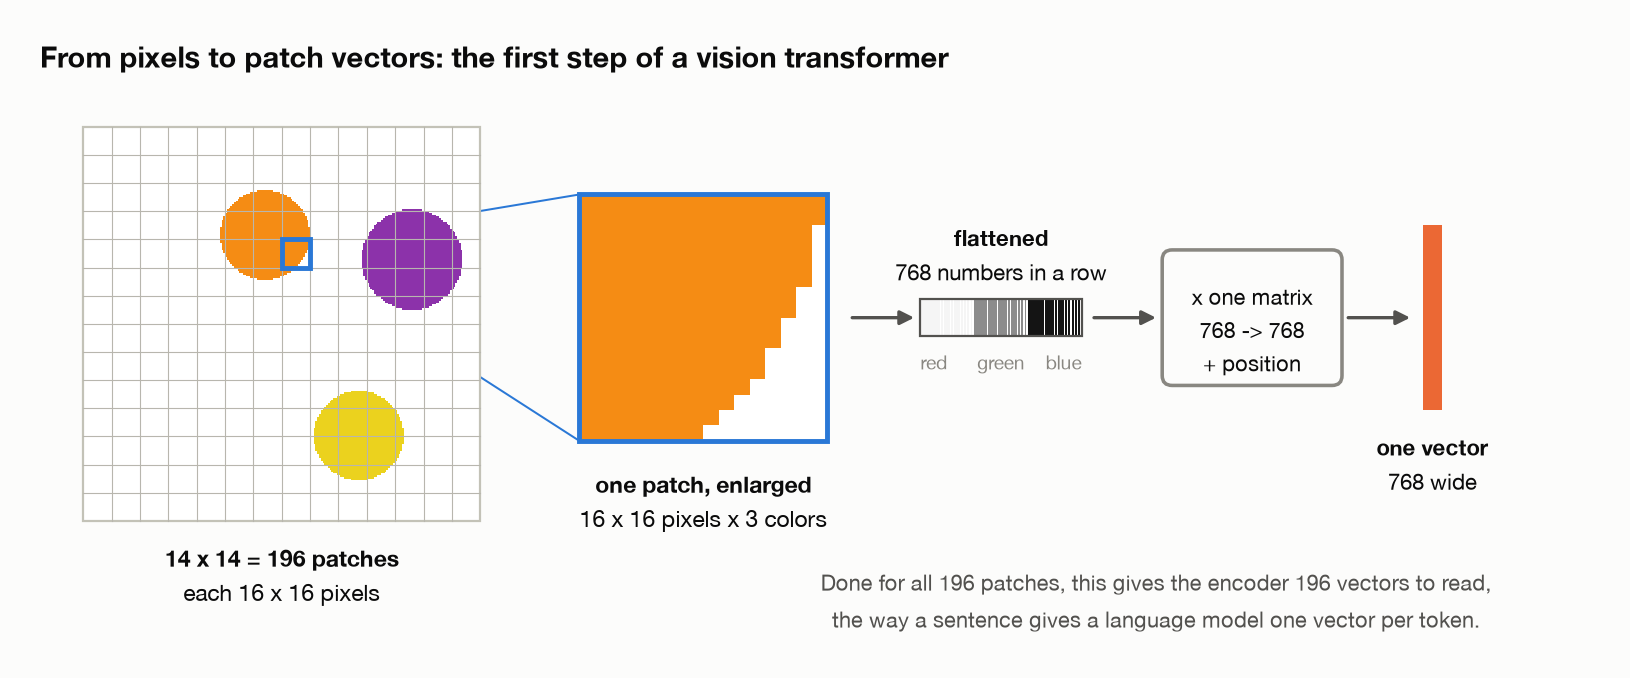
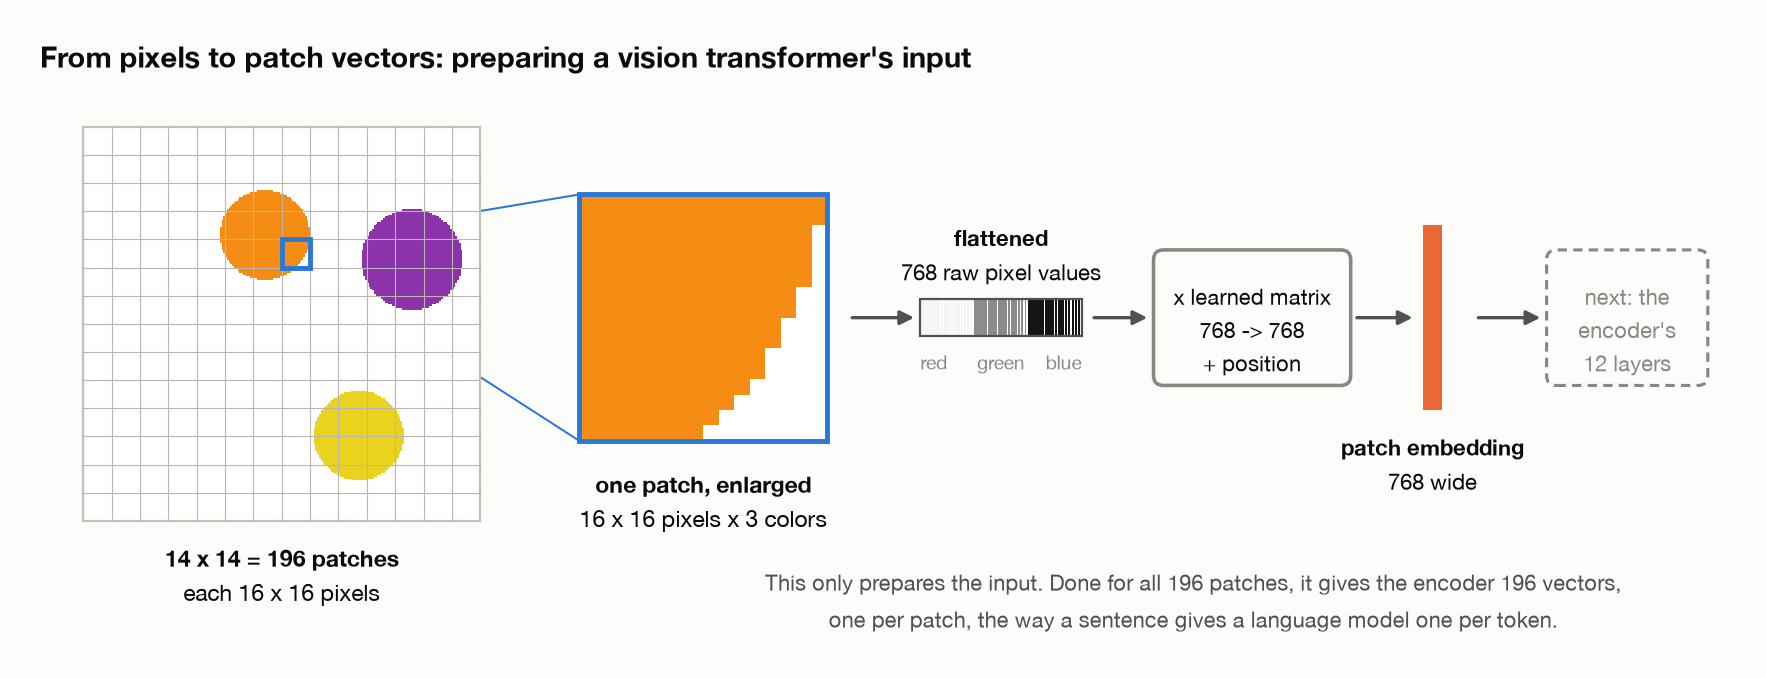
Post 7: Han's short version (fact-checked), section 1 rewritten
Short version: Han's rewrite, with local links made relative, merging
shown to cost no accuracy (91 vs 76), KV cache marked as calculated,
hidden size glossed. Section 1: why not one token per pixel, lookup vs
projection table, shapes table, no CLS token in SigLIP, position added
not appended, patch embedding vs encoder output. Figure relabelled.

diff --git a/_posts/2026-11-03-llm-architectures-multimodal.md b/_posts/2026-11-03-llm-architectures-multimodal.md
@@ -31,37 +31,92 @@ The question this post tests is whether that's enough. With both big models froz
 
 ### The short version {#the-short-version}
 
-I built a small vision-language model from three parts: a picture encoder (SigLIP-base) and a text model (Qwen2.5-0.5B, the model from posts 4 and 6), both **frozen**, so their weights never change, and a small **connector** between them, the only part trained from scratch. It was taught on generated pictures of colored shapes in two stages, first to describe them and then to answer questions about them. Every number is measured by the demo:
+Can we turn a small language model into a vision-language model without retraining the whole thing?
 
-| measured | result |
+That's what I wanted to find out.
+
+I started with two pretrained models: **SigLIP-base** to understand images and **Qwen2.5-0.5B** to generate text (the same language model from posts 4 and 6). I froze both, meaning their weights never changed, and trained only a small **connector** between them.
+
+The training data was deliberately simple: generated pictures containing colored shapes. I wanted to see whether the model could learn to describe what it saw, answer questions about individual shapes, and handle color-shape combinations it had never encountered during training.
+
+The connector has just **3.6 million trainable parameters**, about 0.7% of the language model's 494 million.
+
+#### How does it work?
+
+The idea is surprisingly simple: **turn a picture into something a language model can process alongside text.**
+
+There are three steps:
+
+1. **The vision encoder reads the picture.** It divides the image into 16 × 16-pixel patches, converts each patch into a vector, and processes all the patches together using a vision transformer. Unlike a language model generating text, the vision encoder lets every patch attend to every other patch ([§1](#pixels-to-patches)).
+
+2. **The connector translates between vision and language.** SigLIP produces 196 patch vectors, each 768 numbers wide. The connector combines neighbouring patches in groups of four, reducing 196 vectors to 49, then projects them to the language model's hidden size, the 896 numbers in each of its word vectors ([§2](#the-connector)).
+
+3. **The language model processes the picture and text together.** The 49 image vectors become part of the input sequence, alongside the text tokens. The language model processes them using its existing transformer architecture. The architecture doesn't need to change, although training is still needed to make those image representations useful ([§7](#text-pictures-or-both)).
+
+That's the basic recipe behind the architecture we're exploring: a vision encoder, a connector, and a language model.
+
+#### What did the experiments show?
+
+I trained the connector in two stages:
+
+- **Stage 1 — Learn to describe pictures.** Given an image, generate a caption describing the shapes and their colors.
+- **Stage 2 — Learn to answer questions.** Given an image and a question such as "What color is the triangle?", produce the correct answer.
+
+I also trained comparison models without the captioning stage, with extra captions mixed into question-answer training, and with LoRA enabled on the language model.
+
+Here are the results that stood out:
+
+| Experiment | Result |
 |---|---|
-| one picture becomes | **49 image tokens** |
-| connector size | 3,557,120, **0.7%** of the language model |
-| stage 1 captions exactly right | **91 of 120** (blank: 2) |
-| "color of the triangle?", pairs seen in training | **98** of 100 |
-| the same, for pairs never in a training picture | **76** of 100 |
-| ... and if stage 1 is skipped | **40** of 100 |
-| stage 1 ahead there, 5 paired seeds | **5 of 5**, by a median of 74 in 300 |
-| looking adds, over the controls | **59 to 70** points |
-| KV cache per picture (bf16) | **0.57 MiB** (196 tokens: 2.30) |
+| Captioning new pictures after stage 1 | **91/120** exactly correct |
+| Color questions on familiar color-shape combinations | **98/100** correct |
+| Same questions on combinations excluded from training | **76/100** correct |
+| Unseen combinations, without stage 1 | **40/100** correct |
+| Stage 1 vs. no stage 1, repeated across five seeds | **Stage 1 won all five** |
 
-**How it works.** A picture enters a transformer the way text does, as a sequence of vectors. The encoder cuts it into 16 × 16-pixel patches and turns each into a vector, and is itself a transformer much like the language model, except that every patch can read every other patch: there's no causal mask, because a picture isn't written left to right ([§1](#pixels-to-patches)). The connector merges neighbouring patches and reshapes them to the language model's width, and those vectors go into the sequence where words would be ([§2](#the-connector)). The language model doesn't change at all to read them, and since everything is one sequence, the same model takes text alone, one picture or several ([§7](#text-pictures-or-both)).
+The most interesting result wasn't how well the model performed on familiar examples. All three trained versions did well there.
 
-**What training buys.**
+It was what happened when I asked about **combinations the model had never seen during training**.
 
-- **The connector alone gets a long way.** With both big models frozen, 3.6 million trained parameters teach the model to caption new pictures exactly right 91 times out of 120 ([§3](#stage-one)).
-- **On familiar pictures, every way of training works.** Asked the color of a shape, the three trained versions scored a median of 94 to 99 of 100, with or without the captioning stage ([§4](#stage-two)).
-- **Pairs it never saw are the real test.** Three color-shape pairs never appeared in training. Asked about them, the model scored 76 instead of 98, and the one trained without the captioning stage scored 40. A second run with five paired seeds and 300 fresh questions per test found the same: stage 1 came out ahead in all five ([§6](#five-seeds)). Most wrong answers were the color of a different shape in the same picture, and only the model without stage 1 leaned toward the colors a shape usually came in.
-- **More captions helped one question.** Mixing captions into stage 2 improved "what color is the leftmost shape?" in all five seeds and did nothing for binding ([§6](#five-seeds)).
-- **LoRA added nothing measurable.** Letting the language model adapt moved no score beyond the spread of three seeds ([§4](#stage-two)).
+For example, suppose training included red circles and blue triangles, but never a red triangle. Could the model still answer "What color is the triangle?" when shown a red triangle?
 
-**Living with it.**
+This is a harder test because the model can't simply rely on the colors usually associated with each shape. It has to identify the shape and its color in the actual picture.
 
-- **A score means nothing without a control.** Asked with a blank picture, the models still got about 32 of 100 counting questions right by guessing. Every number here is read against that ([§5](#is-it-looking)).
-- **Pictures cost tokens.** 49 tokens is sixteen times as many positions as this picture's three-word caption. Merging 196 patches into 49 made a training step 3× faster, and here it didn't cost accuracy ([§8](#what-an-image-costs)).
-- **This is one design of four.** Others summarize the picture into a fixed number of tokens, read it through cross-attention, or turn it into a vocabulary of image tokens ([§9](#other-designs)).
+The two-stage model scored 76/100 on these unseen combinations, compared with 40/100 for the model trained without the captioning stage.
 
-The pictures are simple, generated shapes, so these numbers describe how the mechanism behaves, not how good the model is on photographs.
+To check whether this was just a lucky training run, I repeated the comparison across five paired random seeds, using 300 fresh questions per evaluation. **Captioning first helped in all five runs**, with a median advantage of 25 percentage points ([§6](#five-seeds)).
+
+That doesn't prove the model has learned general visual reasoning. But it does suggest that learning to describe complete pictures before answering targeted questions helps it handle new combinations of familiar visual features.
+
+#### A few other things I learned
+
+**1. A correct answer doesn't necessarily mean the model looked at the picture.**
+
+When I replaced the real image with a blank one, the models could still answer some questions correctly. On counting questions, for example, they scored around 32/100 without useful visual information.
+
+That's why I also tested blank, incorrect, and missing images. Depending on the question and model, the real picture improved accuracy by 59–70 percentage points over the strongest control. Without those controls, it would be easy to mistake good guessing for actual visual understanding ([§5](#is-it-looking)).
+
+**2. The training recipe mattered more than making the language model trainable.**
+
+Adding LoRA to the language model didn't produce a measurable improvement beyond the variation across three seeds. Mixing additional captions into stage 2 helped with questions about the leftmost shape, but didn't improve the unseen color-shape binding test.
+
+For this small task, what the connector learned, and the order in which it learned it, mattered more than adding trainable parameters to the language model ([§4](#stage-two), [§6](#five-seeds)).
+
+**3. Pictures have a real compute and memory cost.**
+
+In this implementation, one image takes 49 positions in the language model's input sequence, compared with just a few tokens for a short text description.
+
+Without patch merging, the image would take 196 positions. Reducing that to 49 made training steps about 3× faster, and in this experiment it didn't cost accuracy: the merged version captioned 91 of 120 pictures right, against 76. It also cut the bf16 KV cache each image needs, calculated from the model's shape, from 2.30 MiB to 0.57 MiB ([§8](#what-an-image-costs)).
+
+This is one reason image token counts matter when deploying multimodal models at scale.
+
+#### The bigger picture
+
+This experiment explores just one way to connect vision and language: **convert an image into vectors and insert them directly into the language model's input sequence.**
+
+Other architectures use a fixed number of learned visual tokens, cross-attention between language and vision, or discrete image tokens. We'll compare those designs later in the post ([§9](#other-designs)).
+
+And an important limitation: these experiments use simple, generated pictures of colored shapes, not real photographs. The results help us understand how the architecture and training process behave under controlled conditions. They don't establish how well this model would perform on real-world vision tasks.
 
 ### Setup
 
@@ -130,23 +185,47 @@ Plus [all notation](#appendix-all-notation) at the end.
 
 ### 1. From pixels to patches {#pixels-to-patches}
 
-A language model never sees text either. It sees a sequence of vectors, one per token, each looked up from a table ([post 1](/posts/llm-architectures-attention-and-rope/) walked through it). So the question for a picture is the same one: how do you turn it into a sequence of vectors?
+A transformer doesn't work on raw text, and it doesn't work on raw pixels either. It works on a sequence of vectors. A language model gets its vectors by looking each token up in a table ([post 1](/posts/llm-architectures-attention-and-rope/) walked through it). So for a picture, the question is the same one: how do you turn it into a sequence of vectors?
+
+The obvious answer, one vector per pixel, doesn't scale. A 224 × 224 picture has 50,176 pixels. As a sequence, that's 256 times as long as the 196 vectors this section ends with, and since attention compares every position with every other, it's 256² = 65,536 times as many comparisons ([post 3](/posts/llm-architectures-flash-attention/) showed how fast that grows).
 
 The answer most models use comes from the **vision transformer**, or ViT, of [Dosovitskiy et al.](https://arxiv.org/abs/2010.11929), whose title gives the idea away: *An Image is Worth 16x16 Words*. Cut the picture into a grid of small squares, called **patches**, and treat each patch the way a language model treats a token.
 
 <!-- FIGURE: image-to-patches -->
-![A picture cut into a 14 by 14 grid of patches; one patch enlarged to its 16 by 16 pixels, flattened into 768 numbers, multiplied by one matrix and given its position, becoming one 768-wide vector](/assets/picture/2026-10-11-llm-architectures-multimodal/image-to-patches-light.png){: .light width="1000" height="416" }
-![A picture cut into a 14 by 14 grid of patches; one patch enlarged to its 16 by 16 pixels, flattened into 768 numbers, multiplied by one matrix and given its position, becoming one 768-wide vector](/assets/picture/2026-10-11-llm-architectures-multimodal/image-to-patches-dark.png){: .dark width="1000" height="416" }
+![A picture cut into a 14 by 14 grid of patches; one patch enlarged to its 16 by 16 pixels, flattened into 768 raw pixel values, multiplied by one learned matrix and given its position, becoming one 768-wide patch embedding, the input to the encoder's 12 transformer layers](/assets/picture/2026-10-11-llm-architectures-multimodal/image-to-patches-light.png){: .light width="1000" height="384" }
+![A picture cut into a 14 by 14 grid of patches; one patch enlarged to its 16 by 16 pixels, flattened into 768 raw pixel values, multiplied by one learned matrix and given its position, becoming one 768-wide patch embedding, the input to the encoder's 12 transformer layers](/assets/picture/2026-10-11-llm-architectures-multimodal/image-to-patches-dark.png){: .dark width="1000" height="384" }
 
 Take it one step at a time.
 
 1. **A picture is a grid of numbers.** Each pixel is three numbers, how much red, green and blue it has. SigLIP takes pictures 224 pixels on a side.
-2. **Cut it into patches.** At 16 × 16 pixels per patch, a 224-pixel side holds 14 patches, so the picture becomes a 14 × 14 grid of 196 patches.
-3. **Flatten each patch.** Write a patch's pixels out in one long row: 16 × 16 pixels × 3 colors = 768 numbers.
-4. **Multiply by one learned matrix.** That turns the 768 pixel numbers into a 768-wide vector. The ViT paper describes this step as mapping the flattened patches "to D dimensions with a trainable linear projection" (§3.1). It's the picture's version of looking up a word's embedding: same idea, pixels in place of a token id.
-5. **Add a position.** Like words, patches need to know where they are. A learned vector for each of the 196 grid positions is added on.
+2. **Cut it into patches.** The patches are squares 16 pixels on a side that don't overlap. 224 ÷ 16 = 14, so the picture becomes a 14 × 14 grid of 196 patches. Each patch will become one position in the sequence, the way a token does.
+3. **Flatten each patch.** Write a patch's pixels out in one long row: 16 × 16 pixels × 3 colors = 768 numbers. Nothing has been learned yet. These are the same pixels, in a different order.
+4. **Multiply by one learned matrix.** A 768 × 768 matrix turns the 768 pixel values into a 768-wide vector, the **patch embedding**. The ViT paper describes this step as mapping the flattened patches "to D dimensions with a trainable linear projection" (§3.1). The size happens to stay the same here; what changes is what the numbers mean. Going in, each is one pixel's brightness in one color. Coming out, each is a learned mix of all 768, and SigLIP's training chose the mixes that turned out useful. The same matrix is used for every patch.
+5. **Add a position.** Shuffle the 196 patch vectors and nothing in them says where each came from, the top-left corner or the middle of the circle. So each of the 196 grid positions has its own learned vector, also 768 wide, and it's added to the patch vector number by number. The result is still 768 numbers, not 1,536.
 
-Then the encoder's 12 transformer layers do what a language model's layers do: every patch attends to every other patch, so by the end each patch vector carries information about the whole picture, not just its own 16 × 16 square.
+**This is like a word's embedding, but it isn't a lookup.** Both steps give the transformer one learned vector per position. The difference is where the vector comes from:
+
+| | language model | vision encoder |
+|---|---|---|
+| input | a token id | a patch's 768 pixel values |
+| how | pick that token's row of a table | multiply the pixel values by one matrix |
+| what's learned | a separate vector for every token in the vocabulary | one matrix, shared by all 196 patches |
+
+The two are closer than the table makes them look: picking row 5 of a table is the same as multiplying it by a row of zeros with a single 1 in place 5. A token id is that one-hot row; a patch brings 768 real values instead.
+
+Here are the shapes for one picture, from pixels to the encoder's output:
+
+| step | shape |
+|---|---|
+| the picture | 3 × 224 × 224 (colors, height, width) |
+| cut into patches and flattened | 196 × 768 |
+| times the matrix | 196 × 768 |
+| plus the positions | 196 × 768 |
+| after the encoder's 12 layers | 196 × 768 |
+
+The original ViT also put one extra learned vector at the front of the sequence, to collect a summary for classifying the picture. SigLIP doesn't: its position table has exactly 196 rows, one per patch, and its output is 196 vectors.
+
+**So far, no patch has looked at any other.** Each patch embedding was made from its own 256 pixels and its own position, nothing else. That's only the encoder's *input*. Its 12 transformer layers come next ([inside the encoder](#inside-the-encoder), below), and they're where patches exchange information: every patch attends to every other patch, so by the end each vector carries information about the whole picture, not just its own 16 × 16 square. Those outputs, not the patch embeddings, are what the connector in [§2](#the-connector) receives.
 
 Here are the numbers, from the real encoder ([`pixels_to_patches`](https://github.com/bearbearyu1223/llm-architectures-refresher/blob/main/src/llmrefresher/demos/d07_multimodal.py)):
 
